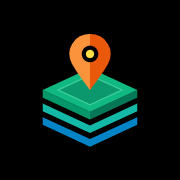
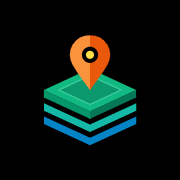
feat: pembaruan splash dan ikon aplikasi dengan latar belakang transparan

diff --git a/index.html b/index.html
@@ -227,7 +227,7 @@
         border: none;
         outline: none;
         box-shadow: none;
-        background: #000000;
+        background: transparent;
       }
       .initial-app-splash-title {
         margin: 0;
